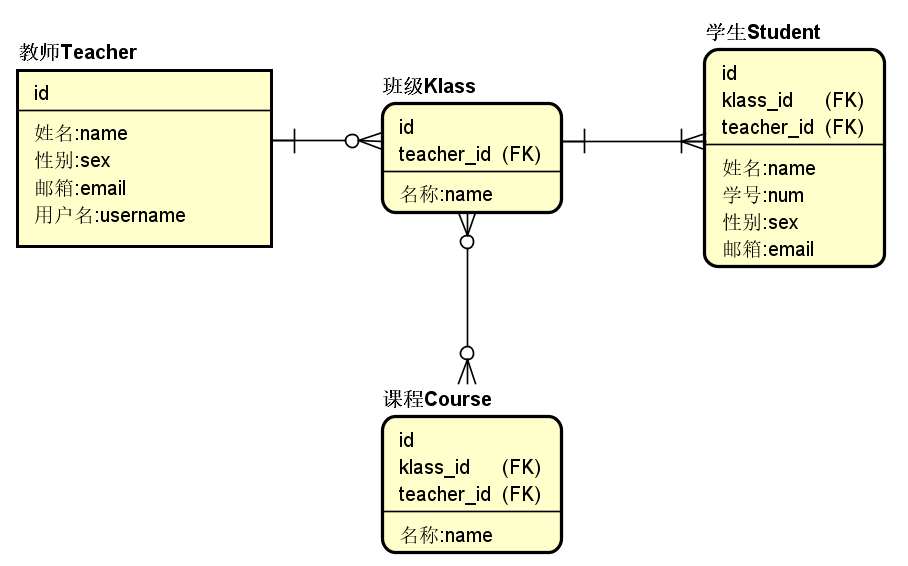
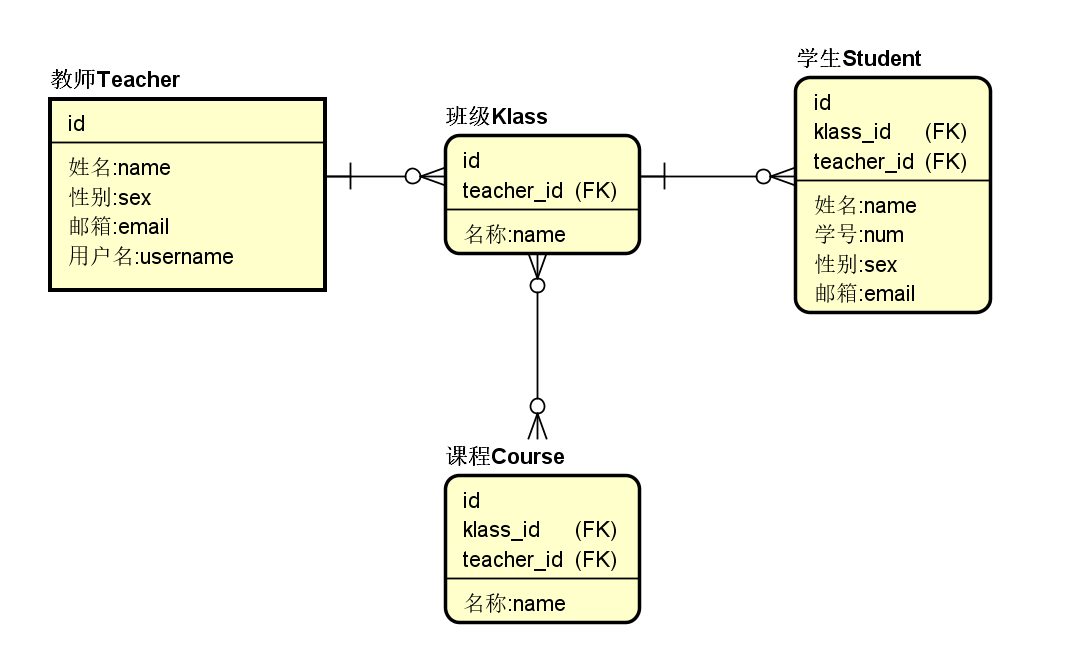
3.2.5 操作数据表 (#109)
* 2.9完善

* revise er-diagram

* revise summary

* complete 3.2.4 api-link-table-data-init

Changed region(s): [[0.0, 0.03, 0.9868, 0.9912]]

diff --git a/3-teacher/2-read/5-link-table/readme.md b/3-teacher/2-read/5-link-table/readme.md
@@ -1,2 +1,283 @@
+# 3.2.5 操作数据表
 
-link table and unit test and  data init
+上一小节中，我们在后台的`Repository`中新建了`Teacher`实体，并在`SpringMVC`中集成的`Hibernate`框架的帮助下成功映射到`Teacher`数据表，本节中，我们学习如何对数据表操作。
+
+## 仓库接口
+
+操作数据表无非增删改查，而这些，`SpringMVC`已经为我们写好了。
+
+在`Repository`包上右击，`New`，之后选择`Java Class`。
+
+然后在弹出的对话框中，`Name`一栏填写名称`TeacherRepository`，下面的`Kind`(类型)我们选择`Interface`(接口)。
+
+![](image/0.png)
+
+之后`IDEA`就为我们创建了这样一个接口文件。
+
+![](image/1.png)
+
+当然，如果类型选成了`Class`类也没关系，我们直接在文件中把`class`改成`interface`即可。
+
+我们在`TeacherRepository`中写如下代码：
+
+```java
+package com.mengyunzhi.repository;
+
+import org.springframework.data.repository.CrudRepository;
+// 继承框架提供的增删改查接口
+public interface TeacherRepository extends CrudRepository<Teacher, Long> {
+
+}
+```
+
+这里我们的`TeacherRepository`继承了`CrudRepository`接口，这是框架为我们写好的接口，实现了基本的增删改查功能。
+
+```java
+public interface TeacherRepository extends CrudRepository<Teacher, Long>
+```
+
+尖括号内为泛型，第一个为实体名，第二个为主键类型。如果你不了解`Java`泛型的话，可以参考这篇博客[Java泛型详解](https://www.ziwenxie.site/2017/03/01/java-generic/)
+
+## 单元测试
+
+
+因为`SpringMVC`开发`web`应用前后台分离，所以为了保证我们的每一个方法都是正确的，我们需要进行单元测试。
+
+就像我们用测试`ThinkPHP`开发的系统一样，我们需要去网页上去点击，去看看自己写的方法是否有效，而在这里，需要的是测试代码。
+
+打开`TeacherRepository`文件，把光标放在接口名附近，左上角会出现小灯泡，点击，选择`Create Test`。
+
+![](image/6.png)
+
+之后，`IDEA`就会帮我们在`test`的统计目录下建立`TeacherRepositoryTest`测试文件。
+
+然后，在测试类上添加注解。
+
+```java
+// 这两条注解声明测试基于SpringBoot
+@SpringBootTest
+@RunWith(SpringRunner.class)
+public class TeacherRepositoryTest {
+
+}
+```
+
+`@SpringBootTest`和`@RunWith(SpringRunner.class)`两个注解声明了测试的环境为`SpringBoot`。
+
+因为本测试文件是要测试`TeacherRepository`这个接口提供的方法是否正确，以我们传统的思路，用这个接口的实现类去创建对象，然后调用方法去测试。
+
+`SpringMVC`给我们提供了更加简便的方法，`@Autowired`注解。
+
+```java
+// 这两条注解声明测试基于SpringBoot
+@SpringBootTest
+@RunWith(SpringRunner.class)
+public class TeacherRepositoryTest {
+
+    // 自动装配TeacherRepository的对象
+    @Autowired
+    private TeacherRepository teacherRepository;
+}
+```
+
+我们可以通过`@Autowired`注解直接装配进一个`TeacherRepository`接口实现类的对象，简化了我们新建对象的流程。
+
+```java
+// 这两条注解声明测试基于SpringBoot
+@RunWith(SpringRunner.class)
+@SpringBootTest
+public class TeacherRepositoryTest {
+
+    // 自动装配TeacherRepository的对象
+    @Autowired
+    private TeacherRepository teacherRepository;
+
+    // @Test声明这个方法是一个单元测试方法
+    @Test
+    public void saveTest() {
+        teacherRepository.save(new Teacher());
+    }
+}
+```
+
+这里我们直接调用`teacherRepository`中的`save`方法去保存一个新建的`Teacher`类的对象，如果保存错误，框架会直接抛出异常，所以，如果通过该测试，就证明该接口有效。
+
+点击方法左侧的绿三角，选择`Run 'saveTest()'`，运行这个单元测试方法。
+
+![](image/7.png)
+
+运行完成后，我们看到提示信息：`1 test passed`(一个测试通过)，表示我们所写的仓库接口通过了单元测试，没有问题。
+
+![](image/8.png)
+
+*提示：如果没有通过测试的话，去看看是否是忘记开启`xampp`造成的数据库连接问题。*
+
+## 数据初始化
+
+按照流程，已经建立好了操作数据库的接口，我们就可以用这个接口在数据库增加数据了，但是本节的重点是读取数据，为了大家更清楚“读取数据”的流程，所以我们在后面添加数据的章节时再去学习如何利用代码添加，这里，我们在数据库中手动添加数据。
+
+我们要展示的效果就是张三、李四两条数据，我们打开`Workbench`，打开教师表，手动添加这两条数据。
+
+![](image/2.png)
+
+```
+id email               name     sex  username
+1  zhangsan@yunzhi.com zhangsan true zhangsan
+2  lisi@yunzhi.com     lisi     true lisi
+```
+
+点击右下角`Apply`。
+
+![](image/3.png)
+
+会弹出对话框，内容是要执行两条`SQL`语句，点击右下角`Apply`。
+
+![](image/4.png)
+
+执行之后会出现如下提示：`SQL script was successfully applied to the database.`(`SQL`脚本已成功应用于数据库)。
+
+![](image/5.png)
+
+## 修改配置
+
+上一小节中，我们对`resources`目录下的`application.properties`文件进行了如下配置：
+
+```
+# 在项目初始化时，重新创建数据表
+spring.jpa.hibernate.ddl-auto=create
+# 指定连接的类型为mysql 连接的地址为：localhost 端口为3306 ，数据库为angularjs-springmvc
+spring.datasource.url=jdbc:mysql://localhost:3306/angularjs-springmvc
+# 用户名为root
+spring.datasource.username=root
+# 密码为空
+spring.datasource.password=
+```
+
+我们之前配置`spring.jpa.hibernate.ddl-auto=create`，每次启动项目时重新创建数据表，换句话说，每次启动项目后，我们之前手动添加的数据就消失了。
+
+所以我们将`create`(创建)改为`update`(更新)。
+
+```
+# 在项目初始化时，更新数据表
+spring.jpa.hibernate.ddl-auto=update
+# 指定连接的类型为mysql 连接的地址为：localhost 端口为3306 ，数据库为angularjs-springmvc
+spring.datasource.url=jdbc:mysql://localhost:3306/angularjs-springmvc
+# 用户名为root
+spring.datasource.username=root
+# 密码为空
+spring.datasource.password=
+```
+
+## 完善测试
+
+通过上面的学习，我们已经初步认识了单元测试，而本节中，我们需要从数据库中获取数据，并发送到前台显示，所以我们要完善我们的测试保证我们从数据库中获取到的数据是正确的。
+
+我们在测试代码中再写一个`findAllTest`测试方法：
+
+```java
+// @Test声明这个方法是一个单元测试方法
+@Test
+public void findAllTest() {
+    // 调用teacherRepository的findAll方法，并将返回值赋给teachers。
+    List<Teacher> teachers = teacherRepository.findAll();
+}
+```
+
+我们希望的是调用`teacherRepository`的`findAll`方法，并将返回值赋给`List<Teacher>`类型的`teachers`。
+
+但是这里，`IDEA`将这行代码标红，表示我们写的这行代码有问题。
+
+![](image/9.png)
+
+`findAll`方法的返回值类型为`Iterable<Teacher>`，而我们用`List<Teacher> `类型的`teachers`去接收，就会提示错误。
+
+我们需要进行强制类型转换。
+
+```java
+// @Test声明这个方法是一个单元测试方法
+@Test
+public void findAllTest() {
+    // 调用teacherRepository的findAll方法，并将返回值转换为List类型后赋值给teachers。
+    List<Teacher> teachers = (List<Teacher>) teacherRepository.findAll();
+}
+```
+
+继续跟着思路走，我们获取到了`findAll`返回来的数据列表，我们需要验证列表中是否是两条数据。
+
+同样，已经有现成的类供我们使用，我们只需导入即可。
+
+```java
+// 静态导入断言类
+import static org.assertj.core.api.Assertions.assertThat;
+```
+
+之后我们加入断言，来完善我们的测试。
+
+```java
+package com.mengyunzhi.repository;
+
+import org.junit.Test;
+import org.junit.runner.RunWith;
+import org.springframework.beans.factory.annotation.Autowired;
+import org.springframework.boot.test.context.SpringBootTest;
+import org.springframework.test.context.junit4.SpringRunner;
+
+import java.util.List;
+
+// 静态导入断言类
+import static org.assertj.core.api.Assertions.assertThat;
+
+// 这两条注解声明测试基于SpringBoot
+@SpringBootTest
+@RunWith(SpringRunner.class)
+public class TeacherRepositoryTest {
+
+    // 自动装配TeacherRepository的对象
+    @Autowired
+    private TeacherRepository teacherRepository;
+
+    // @Test声明这个方法是一个单元测试方法
+    @Test
+    public void findAllTest() {
+        // 调用teacherRepository的findAll方法，并将返回值转换为List类型后赋值给teachers。
+        List<Teacher> teachers = (List<Teacher>) teacherRepository.findAll();
+        // 断言teachers的长度为2
+        assertThat(teachers.size()).isEqualTo(2);
+    }
+}
+```
+
+我们写了这样一行断言语句，即断言`teachers.size()`和`2`相等。除了`isEqualTo`断言相等之外，还有`isNull`(断言为空)或`isNotNull`(断言不为空)等，我们会在后续章节中学习。断言在单元测试是必不可少的，我们需要熟练掌握断言。
+
+```java
+assertThat(teachers.size()).isEqualTo(2);
+```
+
+最后，我们运行测试，测试通过。
+
+![](image/10.png)
+
+**提示**
+
+如果单元测试没有通过，不要着急。我们去控制台看打印出来的错误信息。
+
+![](image/11.png)
+
+如上图，测试未通过。这里给出错误信息：
+
+```
+Expected :2
+Actual   :3
+```
+
+期待的是`2`，但是实际是`3`，我们就要去数据库中看看我们是不是多添加了一条数据。
+
+## 参考代码
+
+输入以下命令即可切换到本小节示例代码标签：
+
+```
+git checkout 3.2.5-api-link-table-and-data-init
+```
+
+*作者：张喜硕*

diff --git a/2-hello-world/2.9-api-controller/readme.md b/2-hello-world/2.9-api-controller/readme.md
@@ -22,25 +22,31 @@ public class HelloWorld {
 }
 ```
 
-在`SpringMVC`中，控制器`Controller`负责处理由`DispatcherServlet`分发的请求。
+在`SpringMVC`中，控制器`Controller`负责处理由`DispatcherServlet`分发的请求，即：`DispatcherServlet`起到了路由的作用。
 
-我们不需要知道`DispatcherServlet`到底是什么，那是框架为我们写好的，在前期，我们了解即可。
+我们不需要知道`DispatcherServlet`到底是什么，只需要知道它能够通过用户输入的URL来自动执行某个控制器中的某个触发器就可以了。
 
-定义一个控制器非常简单，我们在类上添加`@RestController`注解即可，`SpringMVC`即可自动扫描。
+在`ThinkPHP`中，也内置了这样的功能，我们把`ThinkPHP`中的内置的默认路由功能简称为[MCA](https://www.kancloud.cn/yunzhiclub/thinkphp5guide/165007)
+
+定义一个控制器非常简单，我们不需要做任务的继承操作（`ThinkPHP`是通过继承`think\Controller`来实现的)，而是只需要在需要声明为控制器的类上添加`@RestController`注解即可。
 
 ```java
-// RequestMapping注解：将/helloWorld映射到say方法上。
+@RestController
+public class HelloWorld {
+    ...
+}
+```
+
+这里的`@RequestMapping`是用来构建请求路径与方法（和`ThinkPHP`一样，我们常把可以被路径触发到的方法称为触发器）之间的映射的。`@RequestMapping`将`/helloWorld`这个路径映射到`say`方法这个触发器上。有了`@RequestMapping`这个注解，当用户的路径输入`/helloWorld`便会触发`say`方法。
+
+```java
 @RequestMapping("/helloWorld")
 public String say() {
     return "hello world api";
 }
 ```
 
-这里的`@RequestMapping`是用来构建`url`与方法之间的映射的，`url`就是我们在浏览器地址栏输入的类似`www.baidu.com`之类的网址，我们可以理解为，`@RequestMapping`将`/helloWorld`这个地址映射到`say`方法上。
-
-项目启动后，当用户对`127.0.0.1:8080/helloWorld`发起请求时，`SpringMVC`框架的`DispatcherServlet`就会截获这个请求，然后把这个请求交给控制器去处理。
-
-然后控制器会在自己定义的方法中寻找映射`/helloWorld`的方法，找到了，就执行，找不到，就抛出异常。
+如果用官方点的语言来描述，则是：项目启动后，当用户对`127.0.0.1:8080/helloWorld`发起请求时，`SpringMVC`框架的`DispatcherServlet`就会截获这个请求，然后把这个请求交给对应的触发器去处理。
 
 ## 数据类型
 
@@ -48,17 +54,21 @@ public String say() {
 
 前台`$http`发送请求->控制器处理请求->返回数据->前台使用
 
-返回数据时，我们就需要思考，前台想获取的是什么格式的数据呢？是`Json`类型还是其他常见类型呢？我们试一下。
+返回数据时，我们就需要思考，前台想获取的是什么格式的数据呢？我们试一下。
 
 ![](image/0.png)
 
-我们看到，如果我们直接将我们的字符串`"hello world api"`返回给前台，会报错，提示信息为`Data must be a valid JSON object`，数据必须是一个有效的`Json`对象。
+我们看到，如果我们直接将我们的字符串`"hello world api"`返回给前台，会报错，提示信息为`Data must be a valid JSON object`（数据必须是一个有效的`Json`对象）。
+
+> JSON（JavaScript Object Notation）是一种由道格拉斯·克罗克福特构想设计、轻量级的数据交换语言，以文字为基础，且易于让人阅读。来自[Json-维基百科](https://zh.wikipedia.org/wiki/JSON)。
+
+如果你想深度学习一下`Json`的话，可以看看这篇[Json教程](http://www.w3school.com.cn/json/index.asp)。
 
 所以要返回给前台`Hello World`，我们后台不能仅仅返回一个字符串，前台需要的是`Json`对象。
 
 ## 方法修改
 
-既然前台需要对象，那我们就返回一个`Json`对象，对方法进行如下修改。
+所谓`Json`对象，即按特殊格式组成的一串字符串。既然前台需要，那我们就返回一个`Json`对象，对方法进行如下修改。
 
 ```java
 package com.mengyunzhi.controller;
@@ -110,6 +120,6 @@ public class HelloWorld {
 
 ![](image/2.png)
 
-我们建立`HelloWorld`类时使用的注解是`@RestController`，该方法不单单定义一个控制器，而且声明为`Restful`风格，将返回的对象转化为我们常用的轻量级的`Json`格式。
+`@RestController`负责将`SayHello`对象转换为我们想要的`Json`格式。
 
-前台获取到这个对象后，直接调用`value`属性就能获取我们要传过去的`"hello world api"`了。
+在下一节中，让我们共同学习前台如何获取返回的`Json`对象，并将`hello world api`显示在前台。

diff --git a/SUMMARY.md b/SUMMARY.md
@@ -28,3 +28,10 @@
     * [3.1.2:建立数据库](3-teacher/1-data-prepare/2-database/readme.md)
   * [第二节:读取数据](3-teacher/2-read/readme.md) 
     * [3.2.1:效果展示](3-teacher/2-read/1-list-view/readme.md)
+    * [3.2.2:前台视图层](3-teacher/2-read/2-webapp-view/readme.md)
+    * [3.2.3:前台控制器](3-teacher/2-read/3-webapp-controller/readme.md)
+    * [3.2.4:建立数据库](3-teacher/2-read/4-new-table/readme.md)
+    * [3.2.5:操作数据表](3-teacher/2-read/5-link-table/readme.md)
+    * [3.2.6:后台控制器](3-teacher/2-read/6-api-controller/readme.md)
+    * [3.2.7:前后台对接](3-teacher/2-read/7-front-to-back/readme.md)
+    * [3.2.8:引入Bootstrap](3-teacher/2-read/8-bootstrap/readme.md)
